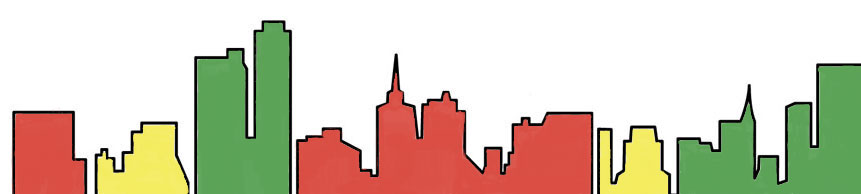
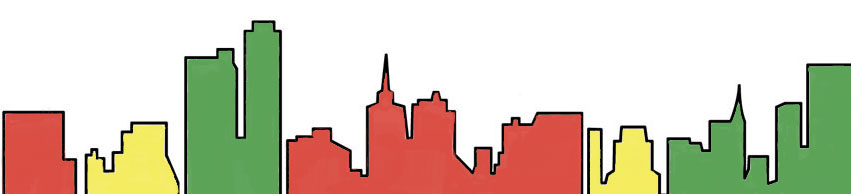
added color nav to all pages

Changed region(s): [[0.0611, 0.0928, 0.6416, 1.0], [0.6722, 0.3402, 0.9777, 1.0], [0.0, 0.5567, 0.0306, 1.0]]

diff --git a/profile.html b/profile.html
@@ -82,11 +82,19 @@
     </div>
   </div>
 
-  <!-- Header banner -->
-  <div class="contain1">
-    <img src="assets/images/cityscape.jpg" alt="worldwide bud report" class="logoHeader responsive">
-    <h2 class="wwb" style="text-align: center">Worldwide Bud Report</h2>
-    <!-- <h3>Worldwide Bud Report Home Page</h3> -->
+  
+    <!-- Header banner -->
+    <div class="contain1 desktopBanner">
+      <img src="assets/images/cityscapeColor1.jpg" alt="worldwide bud report" class="logoHeader responsive">
+      <h2 class="wwb" style="text-align: center">Worldwide Bud Report</h2>
+      <!-- <h3>Worldwide Bud Report Home Page</h3> -->
+  </div>
+
+    <!-- Mobile Header banner -->
+    <div class="contain1 mobileBanner">
+      <img src="assets/images/cityscapeColorMobile.jpg" alt="worldwide bud report" class="logoHeader responsive">
+      <h2 class="wwb" style="text-align: center">Worldwide Bud Report</h2>
+      <!-- <h3>Worldwide Bud Report Home Page</h3> -->
   </div>
 
 

diff --git a/about.html b/about.html
@@ -79,12 +79,22 @@
         </div>
     </div>
 </div>
+
     <!-- Header banner -->
-    <div class="contain1">
-        <img src="assets/images/cityscape.jpg" alt="worldwide bud report" class="logoHeader responsive">
+    <div class="contain1 desktopBanner">
+        <img src="assets/images/cityscapeColor1.jpg" alt="worldwide bud report" class="logoHeader responsive">
         <h2 class="wwb" style="text-align: center">Worldwide Bud Report</h2>
         <!-- <h3>Worldwide Bud Report Home Page</h3> -->
     </div>
+
+      <!-- Mobile Header banner -->
+      <div class="contain1 mobileBanner">
+        <img src="assets/images/cityscapeColorMobile.jpg" alt="worldwide bud report" class="logoHeader responsive">
+        <h2 class="wwb" style="text-align: center">Worldwide Bud Report</h2>
+        <!-- <h3>Worldwide Bud Report Home Page</h3> -->
+    </div>
+
+
     <div class="divWhite">
         <h2 class="title">About</h2>
         <div class="line"></div>

diff --git a/subscribe.html b/subscribe.html
@@ -81,9 +81,17 @@
         </div>
     </div>
 
+
     <!-- Header banner -->
-    <div class="contain1">
-        <img src="assets/images/cityscape.jpg" alt="worldwide bud report" class="logoHeader responsive">
+    <div class="contain1 desktopBanner">
+        <img src="assets/images/cityscapeColor1.jpg" alt="worldwide bud report" class="logoHeader responsive">
+        <h2 class="wwb" style="text-align: center">Worldwide Bud Report</h2>
+        <!-- <h3>Worldwide Bud Report Home Page</h3> -->
+    </div>
+
+      <!-- Mobile Header banner -->
+      <div class="contain1 mobileBanner">
+        <img src="assets/images/cityscapeColorMobile.jpg" alt="worldwide bud report" class="logoHeader responsive">
         <h2 class="wwb" style="text-align: center">Worldwide Bud Report</h2>
         <!-- <h3>Worldwide Bud Report Home Page</h3> -->
     </div>

diff --git a/podcasts.html b/podcasts.html
@@ -80,9 +80,17 @@
 </div>
 
 
+
     <!-- Header banner -->
-    <div class="contain1">
-        <img src="assets/images/cityscape.jpg" alt="worldwide bud report" class="logoHeader responsive">
+    <div class="contain1 desktopBanner">
+        <img src="assets/images/cityscapeColor1.jpg" alt="worldwide bud report" class="logoHeader responsive">
+        <h2 class="wwb" style="text-align: center">Worldwide Bud Report</h2>
+        <!-- <h3>Worldwide Bud Report Home Page</h3> -->
+    </div>
+
+      <!-- Mobile Header banner -->
+      <div class="contain1 mobileBanner">
+        <img src="assets/images/cityscapeColorMobile.jpg" alt="worldwide bud report" class="logoHeader responsive">
         <h2 class="wwb" style="text-align: center">Worldwide Bud Report</h2>
         <!-- <h3>Worldwide Bud Report Home Page</h3> -->
     </div>

diff --git a/assets/style/style.css b/assets/style/style.css
@@ -191,7 +191,17 @@ h2 {
     margin-left: 25px;
     position: relative;
     border-bottom: 2px solid black;
+    
 }
+
+.lineWhite {
+    height: 0px;
+    width: 250px;
+    margin-left: 25px;
+    position: relative;
+    border-bottom: 2px solid white;
+}
+
 
 .divBlack {
     text-align: left;
